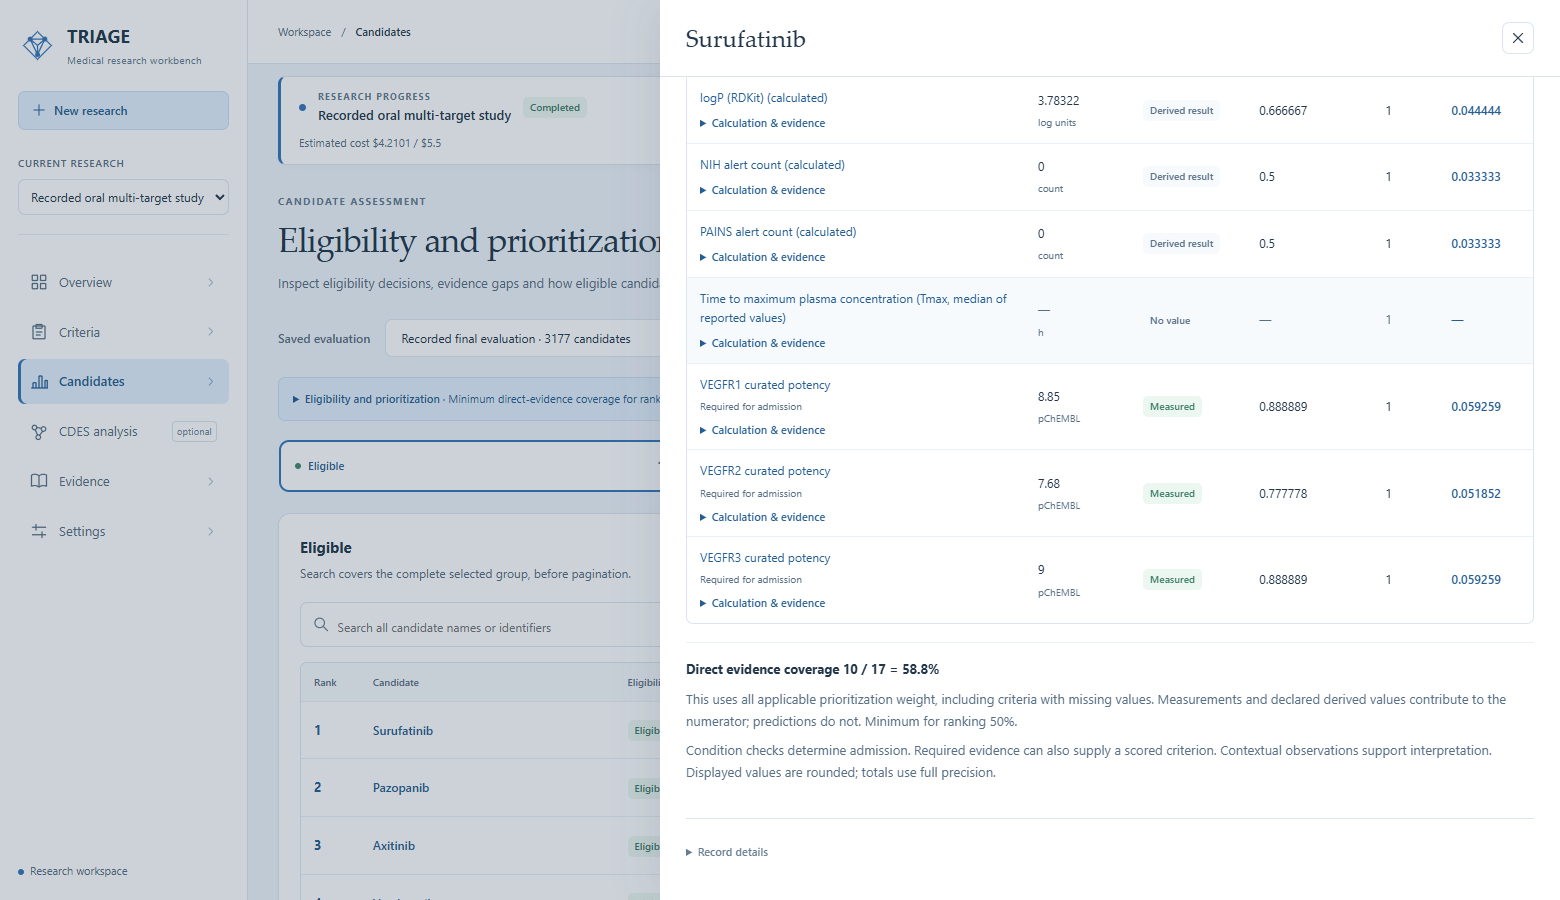
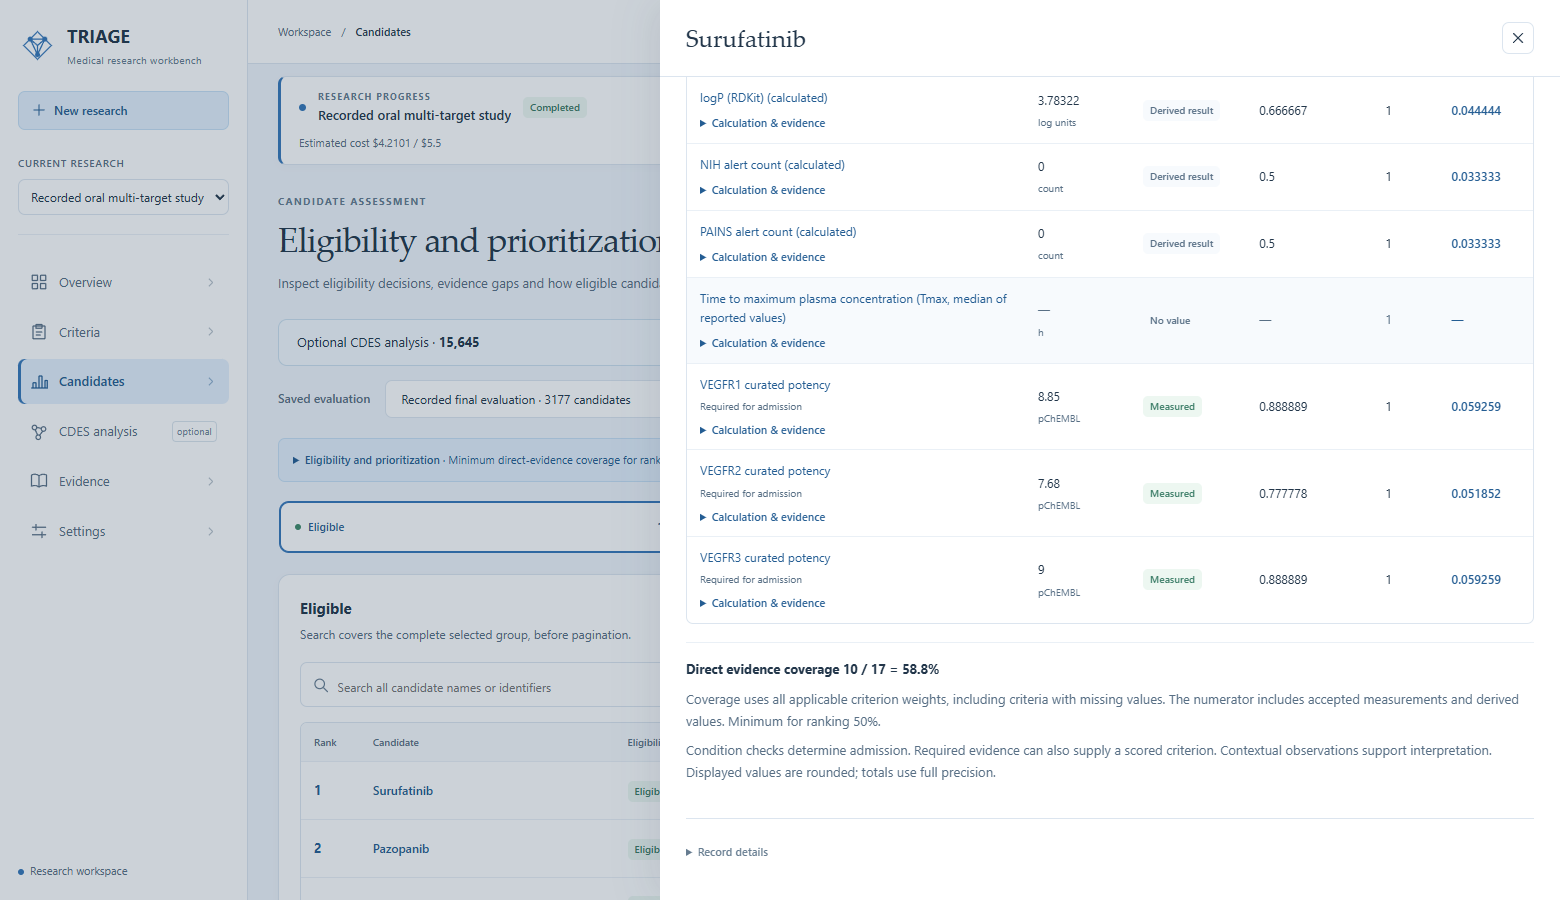
docs: refresh reviewed guidance captures and delivery references

diff --git a/docs/releases/2026-11-02-target-workflow.md b/docs/releases/2026-11-02-target-workflow.md
@@ -24,3 +24,7 @@ The bilingual READMEs, installation and task guides, case tutorial, component ex
 The system source update `d81dd77` passed 731 tests locally and its GitHub Actions checks. Focused checks covered task-defined routes, retrieval without an earlier collection, optional CDES binding, snapshot isolation, prediction source identity and export. The subsequent library-runner addition passed its 20 affected tests. Frontend type checking and the production build passed.
 
 This publication update checks documentation links, example commands, screenshot identities, frozen case tables and current read APIs. Browser inspection uses Microsoft Edge on Windows. The retained example has 3,177 candidates, 10 Eligible, 1,305 Evidence incomplete and 1,862 Excluded; Surufatinib ranks first among the ten eligible compounds. These checks inspect the saved study and the updated workflow controls.
+
+## Delivery and language review
+
+The follow-up review aligned task and CSV instructions with the visible controls and revised explanatory text across the component guides and interface. Guidance states each component's role, evidence basis and next action directly. Eight affected browser captures were refreshed, with the captured source version recorded per image. Type checking, the production build and 11 existing evidence-view tests passed; publication checks cover 64 documents, 1,162 local links, 21 captures and the saved research data.

diff --git a/config/examples/README.md b/config/examples/README.md
@@ -9,7 +9,7 @@ Use these examples for a new workspace. The recorded study retains its `deepseek
 - `task.custom.example.json`: candidate and observation CSV input.
 - `models.deepseek.toml`: working provider/role schema for DeepSeek. Set `DEEPSEEK_API_KEY` in the service process or enable the commented `api_key_file` after replacing its external path.
 - `mas.toml`: mid workload, four candidate workers and a USD 10 run envelope. The workbench records its own resolved workflow settings when research starts.
-- `candidates.csv` and `measurements.csv`: add your own rows before importing through **Use own data**. Headers alone do not form a dataset. Preserve candidate IDs, observation units, conditions, source and actual evidence basis. The [CSV input guide](../../docs/csv-input.md) ([中文](../../docs/zh/csv-input.md)) covers all accepted fields and types, illustrative examples and preview corrections.
+- `candidates.csv` and `measurements.csv`: fill in your data, then use **New research → Import CSV** for candidates and **Add measurements CSV** for observations. Preserve candidate IDs, units, conditions, sources and evidence bases. The [CSV input guide](../../docs/csv-input.md) ([中文](../../docs/zh/csv-input.md)) covers accepted fields, examples and preview corrections.
 
 From the repository root after installation, validate without making model requests:
 

diff --git a/docs/current-status.md b/docs/current-status.md
@@ -2,7 +2,7 @@
 
 [中文](zh/current-status.md) · [Tutorial](tutorial.md) · [Presentation](presentation/README.md) · [Screenshot manifest](assets/current/manifest.json) · [Verification data](reference/current-ui-validation.json)
 
-The screenshots were captured on **2 November 2026** in Microsoft Edge on Windows, using the updated 1.1.0 workbench at source commit `d81dd77`. They show the saved public study and current task controls. This check inspected the existing results, previewed task/data inputs and exported all candidates.
+The screenshots were captured on **2 November 2026** in Microsoft Edge on Windows, using the updated 1.1.0 workbench. They show the saved public study and current task controls. Eight views were refreshed after the wording review in `12acd15`; the manifest identifies each image's source version. The result and response checks below were measured at `d81dd77`.
 
 ## Current study results
 

diff --git a/docs/zh/current-status.md b/docs/zh/current-status.md
@@ -2,7 +2,7 @@
 
 [English](../current-status.md) · [实操教程](tutorial.md) · [演示稿](../presentation/README.md) · [截图清单](../assets/current/manifest.json) · [核对数据](../reference/current-ui-validation.json)
 
-本页截图于 **2026 年 11 月 2 日**在 Windows 的 Microsoft Edge 中实拍，使用更新后的 1.1.0 工作台、代码版本 `d81dd77`，展示已保存的公开案例和当前任务控件。本轮检查既有结果、预览任务与数据输入，并导出全部候选。
+本页截图于 **2026 年 11 月 2 日**在 Windows 的 Microsoft Edge 中实拍，使用更新后的 1.1.0 工作台，展示已保存的公开案例和当前任务控件。`12acd15` 完成文字复核后更新了八个视图；截图清单标明每张图的代码版本。下方结果及响应时间检查对应 `d81dd77`。
 
 ## 当前研究结果
 
